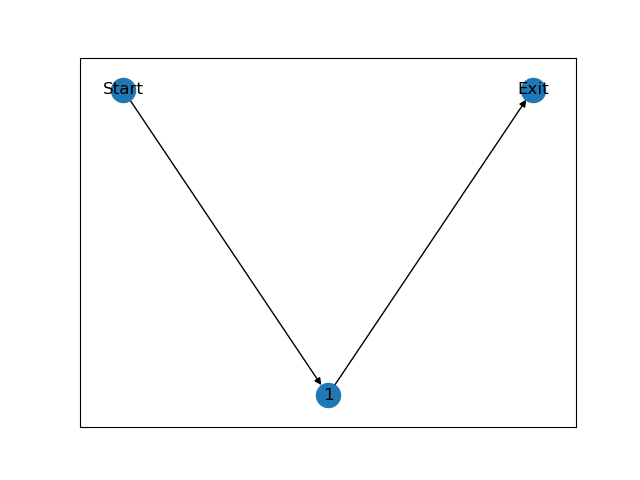
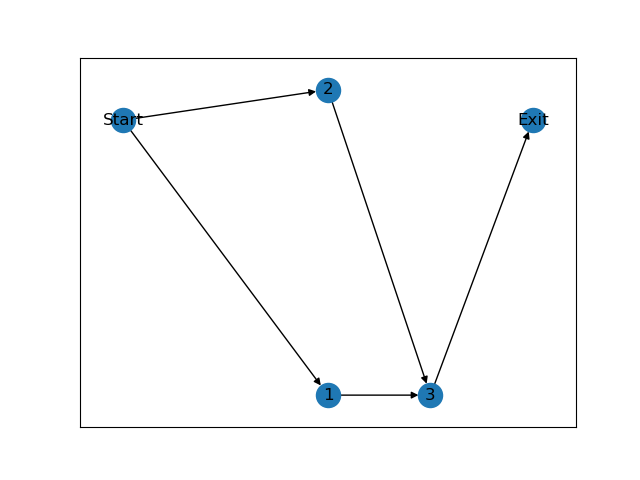
sim not identifying all connections

diff --git a/training_data/utils/TASK_Generator.py b/training_data/utils/TASK_Generator.py
@@ -16,7 +16,9 @@ class TaskGenerator:
         self.addDataType()
         self.addTasks()
 
-        self.matchRequireDemand()
+        if dag.withDemand:
+            print("Matching Require and Demand")
+            self.matchRequireDemand()
 
         self.writeFile(output_file)
 
@@ -66,7 +68,6 @@ class TaskGenerator:
             self.createRequire(task_node, exit_edges)
         if toGenerate and toRequire:
             """Creating Normal Nodes"""
-            # if node_edges: 
             self.createRequireAndGenerate(task_parent)
 
     def createTaskHeader(self, task_parent, duration = -1):
@@ -93,10 +94,14 @@ class TaskGenerator:
             self.addChild(destination_node, 'task', ['value'], [str(edge[1])])
             destination_id += 1
 
-    def createRequire(self, task_node, edges, demand=1):
+    def createRequire(self, task_node, edges, demand=1, firstRequire=True, requirement_id = 0):
         """Header for Generate"""
-        requires_node = self.addChild(task_node, 'requires')
-        requirement_id = 0
+        if firstRequire:
+            requires_node = self.addChild(task_node, 'requires')
+        else: 
+            requires_node = task_node.find('requires')
+            print(requires_node)
+            print("Require already present")
         for edge in edges:
             requirement_node = self.addChild(requires_node, 'requirement' ,['id'], [str(requirement_id)])
             self.addChild(requirement_node, 'type', ['value'], ["0"])
@@ -106,9 +111,7 @@ class TaskGenerator:
     def createRequireAndGenerate(self, task_parent):
         for i in range(self.nodes):
             duration = self.duration[i]
-            task_node = self.createTaskHeader(task_parent, 
-                                              duration=duration #remove duration arg if required
-                                              ) 
+            task_node = self.createTaskHeader(task_parent, duration=duration) #remove duration arg if required 
             node = i+1
             node_edges = self.getNodeInfoFromEdges(node)
             start_edges, node_edges, exit_edges = self.organizeEdges(node_edges)
@@ -129,15 +132,17 @@ class TaskGenerator:
                 self.createRequire(task_node, edge)
 
             if node_edges:  
+                first_require_flag = True
+                requirement_id = 0
                 for node_edge in node_edges:
                     if node_edge[1] == node:
-                        self.createRequire(task_node, 
-                                           [node_edge], 
-                                           demand #remove demand arg if required
-                                           ) 
+                        print(f"Flag is {first_require_flag}")
+                        self.createRequire(task_node, [node_edge], demand , first_require_flag, requirement_id )#remove demand arg if required
+                        first_require_flag = False
+                        requirement_id += 1
+                        print("Flag Changed")
                     elif node == node_edge[0]:
                         self.createGenerate(task_node, [node_edge])
-
 
             if exit_edges: 
                 edge = [(exit_edges[0][0], self.nodes + 1 )] 
@@ -178,19 +183,25 @@ class TaskGenerator:
         of.close()
 
     def matchRequireDemand(self):
-        print("inisde Match Require Demand")
         root = self.root 
         all_tasks = root.findall('.//tasks/task')
-        tasks_num = len(all_tasks)
+        for task in all_tasks:
+            current_task_id = task.attrib['id']
+            for requirement in task.findall('requires/requirement'):
+                require_count = requirement.find('count').attrib['min']
+                source_id = requirement.find('source').attrib['value']
+                self.changeGenerateCount(source_id, current_task_id, require_count )
 
-        # if 'requires' in all_tasks[1].attrib
-        # print(all_tasks[1].attrib)
-        test_task = all_tasks[1]
 
-        current_task_id = test_task.attrib
-        print(f"Current Task ID is {current_task_id}")
-        for elements in test_task:
-            if 'requires' in elements.tag:
-                for requirement in elements.findall('requirement'):
-                    require_count = requirement.find('count').attrib['min']
-                    print(require_count)
+    def changeGenerateCount(self, source_id, destination_id, new_count):
+        root = self.root 
+        all_tasks = root.findall('.//tasks/task')
+
+        for task in all_tasks:
+            if task.attrib['id'] == source_id:
+                destinations = task.findall('generates/possibility/destinations/destination')
+                for destination in destinations:
+                    task_id = destination.find('task').attrib['value']
+                    if task_id == destination_id:
+                        destination.find('count').attrib['min'] = str(new_count)
+                        destination.find('count').attrib['max'] = str(new_count)

diff --git a/training_data/utils/DAG_Generator.py b/training_data/utils/DAG_Generator.py
@@ -8,12 +8,13 @@ import networkx as nx
 import sys
 
 class DAG:
-    def __init__(self, nodes, max_out = 2, alpha = 1.0, beta = 1.0 ):
+    def __init__(self, nodes, max_out = 3, alpha = 0.5, beta = 1.0, withDemand=True ):
         self.nodes = nodes 
         self.max_out = max_out 
         self.alpha = alpha  
         self.beta = beta
         self.duration = []
+        self.withDemand = withDemand
         self.demand = []
         self.position = {'Start':(0,4),'Exit':(10,4)}
         self.generator()
@@ -36,10 +37,17 @@ class DAG:
 
         # Initialize resource requirements
         for i in range(len(self.into_degree)):
-            if random.random() < 0.5:
-                self.demand.append((random.uniform(0.25 * r, 0.5 * r), random.uniform(0.05 * r, 0.01 * r)))
-            else:
-                self.demand.append((random.uniform(0.05 * r, 0.01 * r), random.uniform(0.25 * r, 0.5 * r)))
+            if self.withDemand:
+                if random.random() < 0.5:
+                    cpu_demand = random.uniform(0.25 * r, 0.5 * r)
+                    mem_demand = random.uniform(0.05 * r, 0.01 * r)
+                    self.demand.append((cpu_demand, mem_demand))
+                else:
+                    cpu_demand = random.uniform(0.05 * r, 0.01 * r)
+                    mem_demand = random.uniform(0.25 * r, 0.5 * r)
+                    self.demand.append((cpu_demand, mem_demand))
+            else: 
+                self.demand.append((1, 1))
 
     def DAGs_generate(self):
 

diff --git a/training_data/generate.py b/training_data/generate.py
@@ -7,8 +7,8 @@ from utils.DAG_Generator import DAG
     set_beta = [0.0,0.5,1.0,2.0]                         #DAG regularity
 """
 
-num_of_nodes = 1
-dag = DAG(nodes=num_of_nodes, max_out=3)
+num_of_nodes = 3
+dag = DAG(nodes=num_of_nodes, max_out=3, withDemand=False)
 dag.plot_DAG()
 dag.getInfo()
 
